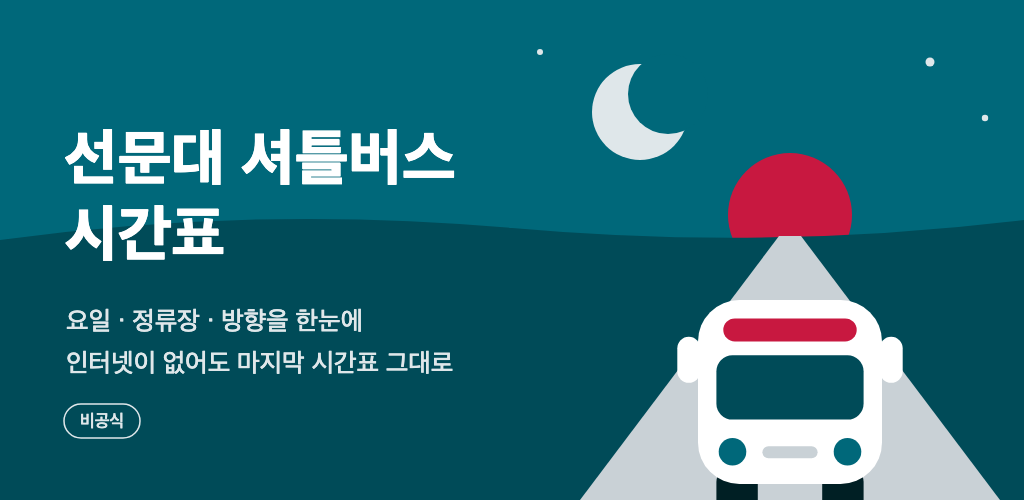
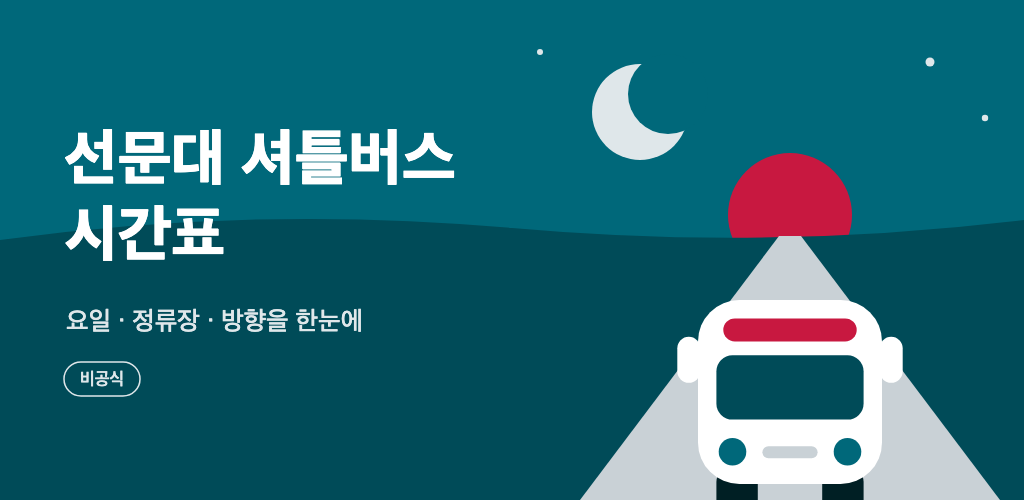
docs(store): 대표 이미지·설명에서 인터넷(오프라인) 문구 삭제

Changed region(s): [[0.0625, 0.69, 0.4375, 0.9]]

diff --git a/store/play/src/feature.html b/store/play/src/feature.html
@@ -36,9 +36,8 @@
   <text x="64" y="180" font-size="62" font-weight="800" fill="#ffffff">선문대 셔틀버스</text>
   <text x="64" y="256" font-size="62" font-weight="800" fill="#ffffff">시간표</text>
   <text x="66" y="330" font-size="26" font-weight="500" fill="#dfe7ea">요일 · 정류장 · 방향을 한눈에</text>
-  <text x="66" y="372" font-size="26" font-weight="500" fill="#dfe7ea">인터넷이 없어도 마지막 시간표 그대로</text>
-  <rect x="64" y="404" width="76" height="34" rx="17" fill="none" stroke="#dfe7ea" stroke-width="1.5"/>
-  <text x="102" y="427" font-size="17" font-weight="600" fill="#dfe7ea" text-anchor="middle">비공식</text>
+  <rect x="64" y="362" width="76" height="34" rx="17" fill="none" stroke="#dfe7ea" stroke-width="1.5"/>
+  <text x="102" y="385" font-size="17" font-weight="600" fill="#dfe7ea" text-anchor="middle">비공식</text>
 </svg>
 </body>
 </html>

diff --git a/store/play/LISTING.md b/store/play/LISTING.md
@@ -7,7 +7,7 @@
 | 칸 | 값 | 제한 |
 |---|---|---|
 | 앱 이름 | `선문대 셔틀버스 시간표 (비공식)` | 30자 (18자) |
-| 간단한 설명 | `요일·정류장·방향만 고르면 선문대 셔틀 시간표가 한눈에. 인터넷이 없어도 볼 수 있어요.` | 80자 (49자) |
+| 간단한 설명 | `요일·정류장·방향만 고르면 선문대 셔틀버스 시간표가 한눈에.` | 80자 (33자) |
 | 자세한 설명 | 아래 §2 | 4000자 |
 | 앱 아이콘 | `store/play/icon-512.png` (512×512) | 512×512 PNG · 1MB 이하 |
 | 그래픽 이미지(대표 이미지) | `store/play/feature-graphic-1024x500.png` | 1024×500 |
@@ -30,10 +30,6 @@
 · 다음에 올 버스를 바로 표시
 · 금요일 휴무(금휴), 요일별 운행 같은 조건을 눈에 띄게 표시
 · 중간 정류장에서 출발하는 편도 함께 보여 줍니다
-
-■ 인터넷이 없어도
-· 마지막으로 받은 시간표를 그대로 보여 줍니다
-· 연결되면 알아서 최신 시간표로 바뀝니다
 
 ■ 편하게
 · 마지막에 고른 요일·정류장·방향을 기억합니다
